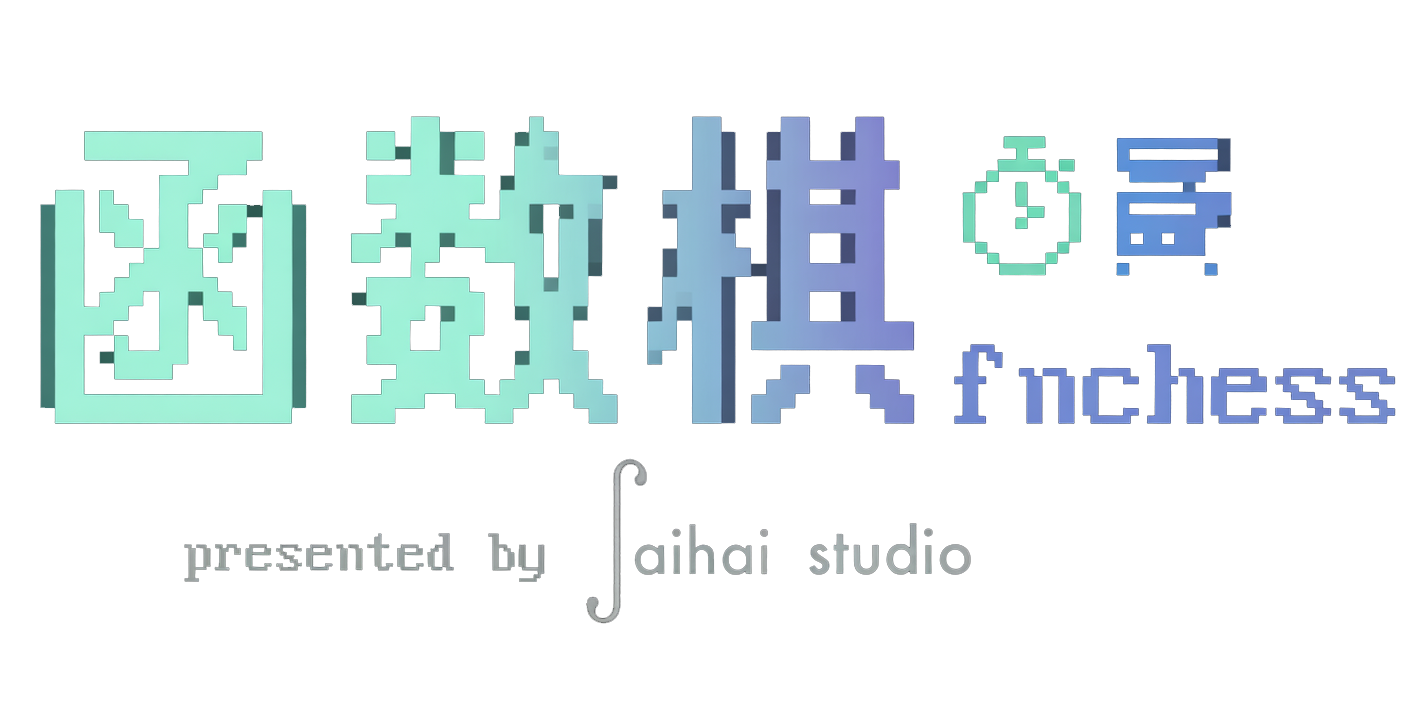
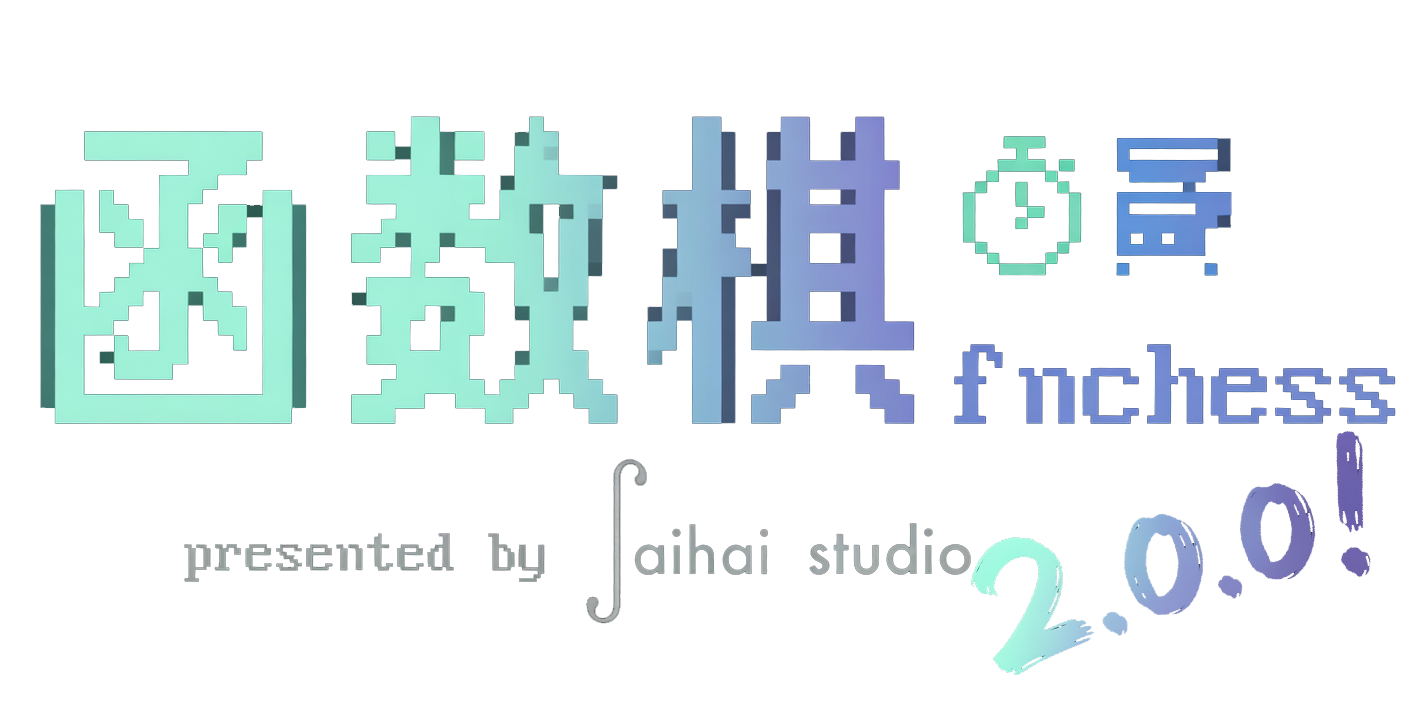
正式版2.0.0！

Changed region(s): [[0.6798, 0.5806, 0.9579, 0.9472]]

diff --git a/index.html b/index.html
@@ -3,7 +3,7 @@
 <head>
     <meta charset="UTF-8">
     <meta name="viewport" content="width=device-width, initial-scale=1.0, maximum-scale=1.0, user-scalable=no, viewport-fit=cover">
-    <title>函数棋 - Function Chess</title>
+    <title>函数棋2.0.0 - Function Chess</title>
     <link rel="stylesheet" href="files/css/style.css">
     <link rel="stylesheet" href="files/css/shaihai-theme.css">
     <link rel="stylesheet" href="files/css/editor.css">

diff --git a/files/js/GameVersion.js b/files/js/GameVersion.js
@@ -2,4 +2,4 @@
  * 游戏版本号（随每次发布更新）
  * 用于启动时与服务器 /version 比较，本地版本更小则提示有新版本。
  */
-window.GAME_VERSION = '1.5.0';
+window.GAME_VERSION = '2.0.0';
